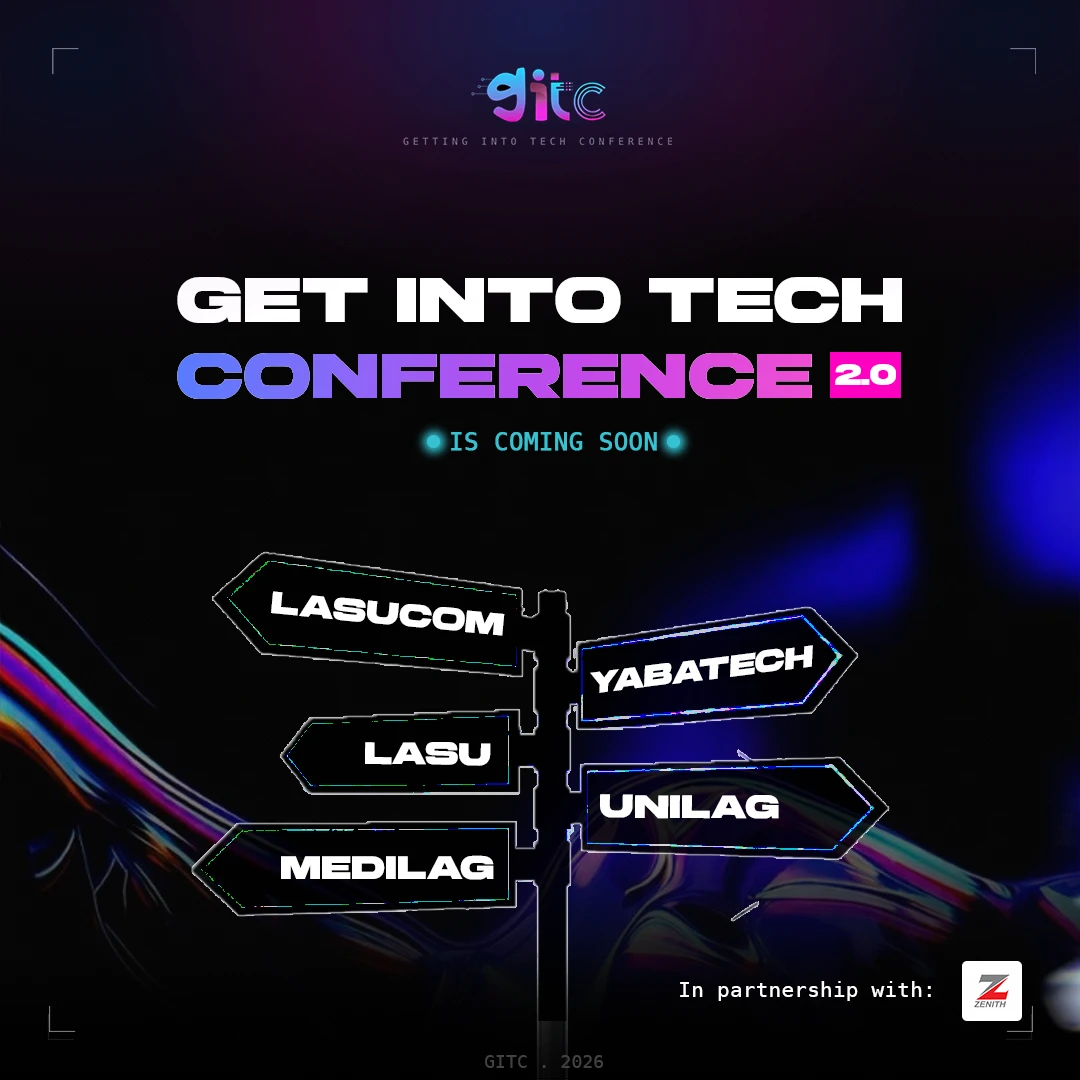
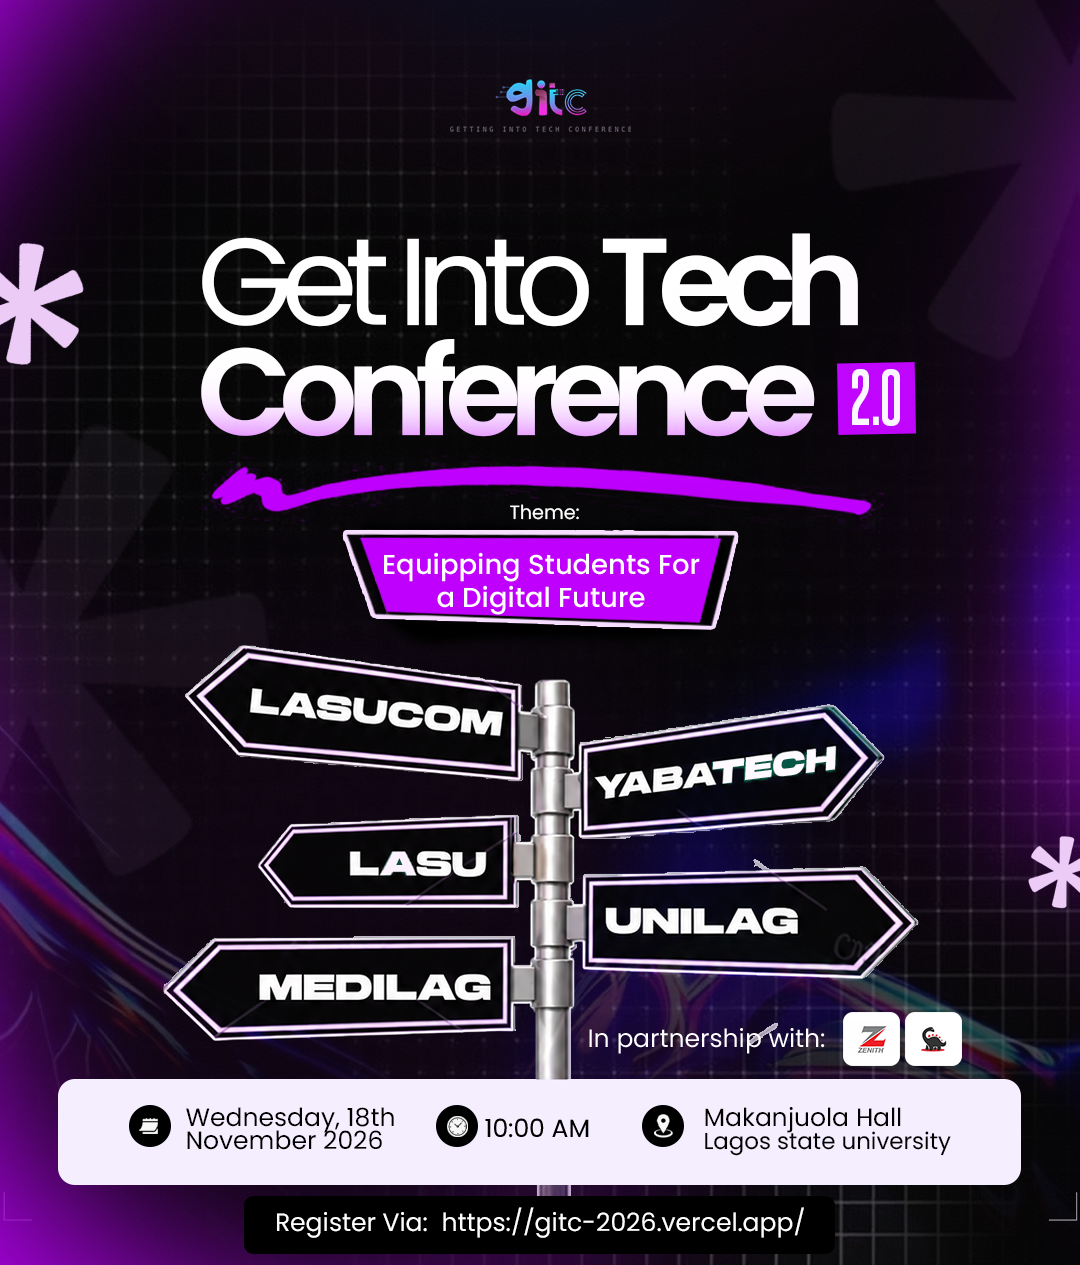
changed flyer image

diff --git a/src/pages/Landing.jsx b/src/pages/Landing.jsx
@@ -35,7 +35,7 @@ export default function Landing() {
               alt="GITC 2026 event flyer"
               className="hero-flyer"
               width={1080}
-              height={1080}
+              height={1265}
               fetchPriority="high"
               decoding="async"
             />
